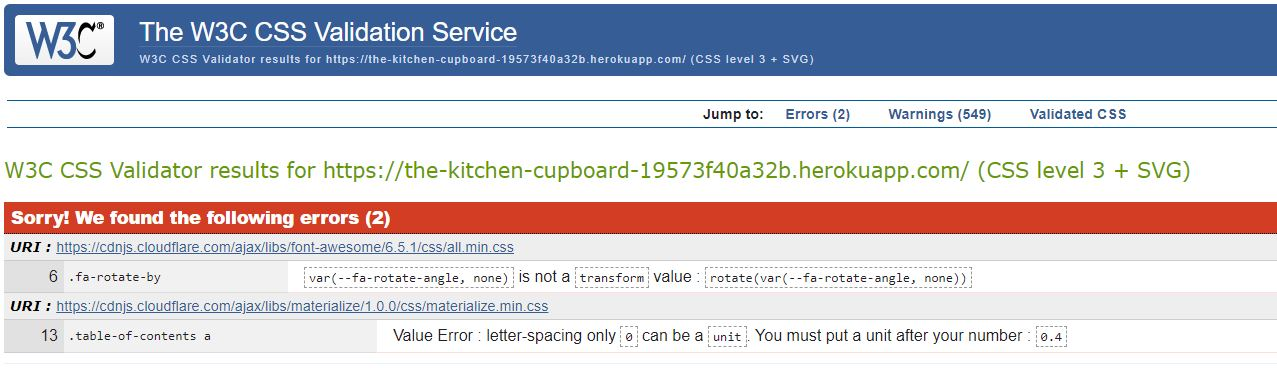
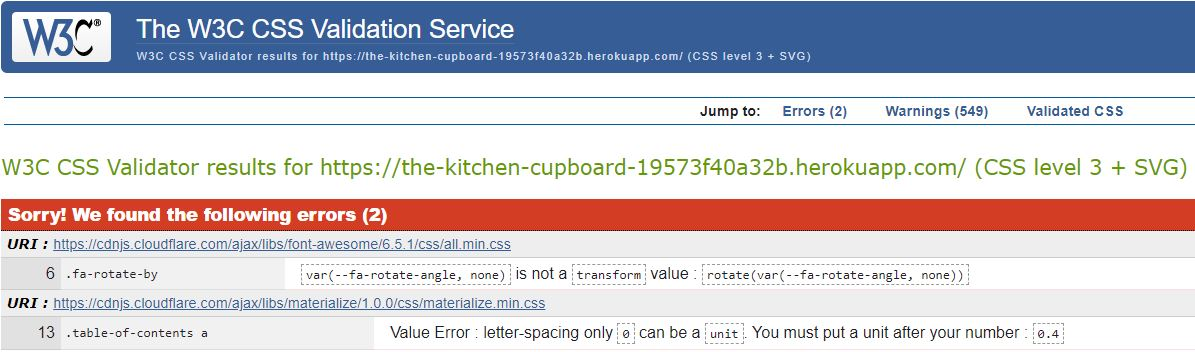
ADD updated validation images to readme

Changed region(s): [[0.0, 0.4062, 1.0, 1.0], [0.0, 0.0, 1.0, 0.2188], [0.0, 0.25, 1.0, 0.375]]

diff --git a/README.md b/README.md
@@ -162,7 +162,7 @@ The website is live [Here](https://the-kitchen-cupboard-19573f40a32b.herokuapp.c
 
   - ### Recipe Details Modal   
   ![Desktop view](/documentation/uxdetail_desktop.jpg)    
-  The individual recipe modal window details the ingredients and method in full. The styling is aligned with the rest of the site and utilises soft pastel colours and the Pacifico font for its headings.    
+  The individual recipe modal window details the ingredients and method in full. The styling is aligned with the rest of the site and utilises soft pastel colours and the Pacifico font for its headings. If the contents is larger than the window a scroll bar appears on the right-hand side. The modal has been designed with a mobile first approach in mind.         
   If the user has not supplied an image url when they added their recipe then the placeholder image will be displayed.    
   Once the user has finished with the individual recipe they can use the 'close' button in the footer of the modal to return to their search results or alternatively just click outside of the modal.     
 
@@ -193,7 +193,7 @@ The website is live [Here](https://the-kitchen-cupboard-19573f40a32b.herokuapp.c
   The recipe image field allows for a user to input an image url. There is a pop-up help box directing users to a free image hosting site called ImgBB which they can use without registering first. The uploading of an image url is optional and if no image is provided a placeholder image will be displayed in its place. In future versions of the site I would like to enable image uploads but this is beyond the scope of this project.   
   The recipe name field is unrestricted in length but the text within it is displayed responsively to avoid overflow.
   The ingredients input field contains placeholder text asking the user to list each ingredient on a separate line. This is because I have written code that will add a semi-colon to the end of each inputted line and this will then split each line when displayed to create a list. The Materialize text-area class has been applied, this enables the size of the input box to expand to the amount of content within it.    
-  The method input field contains placeholder text asking the user to list each step on a separate line. This is because I have written code that will add a semi-colon to the end of each inputted line and this will then split each line when displayed to create a list. The Materialize text-area class has been applied, this enables the size of the input box to expand to the amount of content within it.    
+  The method input field contains placeholder text asking the user to list each step on a separate line. This is because I have written code that will split each line and store it in an array. When the recipe is called back up from the database the individual items in the array are then displayed as a list. The Materialize text-area class has been applied, this enables the size of the input box to expand to the amount of content within it.    
   The submit button posts the information to my Mongodb database.    
 
 
@@ -221,16 +221,16 @@ I have tested compatibility on the following browsers. Safari, Chrome, Edge and 
 ![Am I Responsive](/documentation/amiresponsive.jpg)
 ### Code Validation
 - **HTML**    
-The W3 [HTML5](https://validator.w3.org/) validation tool was used. I validated by URI 
+The W3 [HTML5](https://validator.w3.org/) validation tool was used. I validated by URI, no errors were found.
 ![HTML Validator](/documentation/html_validation.jpg)
 - **CSS**    
 The W3 [CSS](https://jigsaw.w3.org/css-validator/) validation tool was used. I validated by URI. The errors encountered were all related to the Materialize framework that I used and not my custom CSS. 
 ![CSS Validator](/documentation/css_validation.jpg)
 - **JS**    
-The [jshint](https://www.jshint.com/) validation tool was used. There were errors relating to the use of $ but this was necessary for jQuery Materialize initialisation so can be dismissed. No other syntax errors were identified.        
+The [jshint](https://www.jshint.com/) validation tool was used. There were errors relating to the use of $ and M but this was necessary for jQuery Materialize initialisation so can be dismissed. No other syntax errors were identified.        
 
 - **PYTHON**    
-The [CI Python Linter](https://pep8ci.herokuapp.com/) validation tool was used. No error were found.    
+The [CI Python Linter](https://pep8ci.herokuapp.com/) validation tool was used. No errors were found.    
 ![Python Validator](/documentation/python_validation.jpg)    
 
 ### Manual Testing user stories
